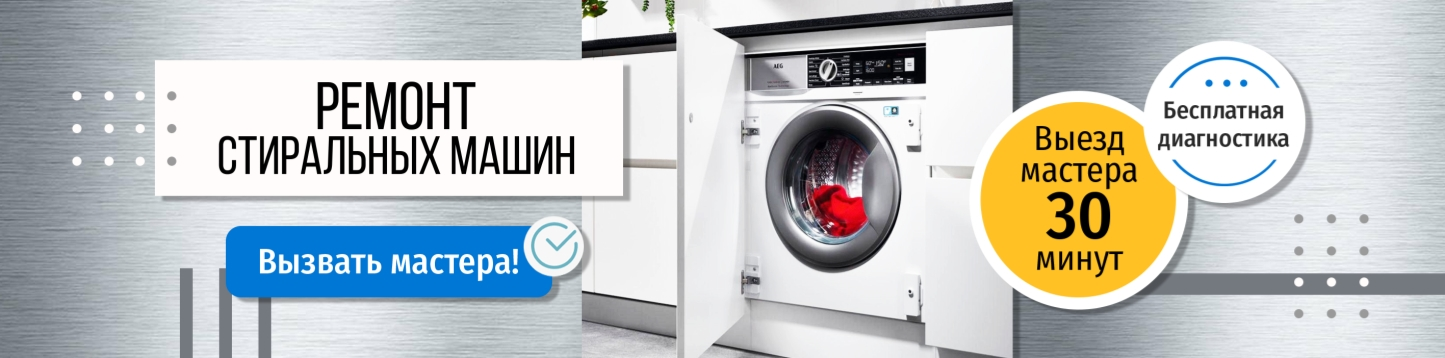
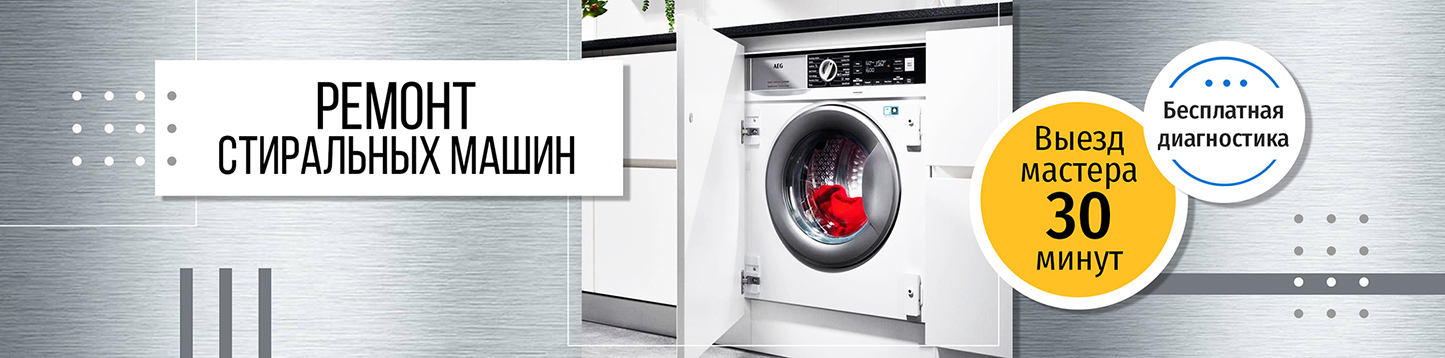
Добавления к верхнему слайдеру
Добавлены актуальные картинки, добавлена кнопка вызова мастера

diff --git a/scss/main.scss b/scss/main.scss
@@ -352,8 +352,94 @@
     box-shadow: 3px 3px 5px #000;
     font-size: 24px;
     line-height: 24px;
-    color: #fff;
+    color: $text__second_color;
     display: block;
+}
+
+.cause {
+    width: 350px;
+    height: 70px;
+    position: absolute;
+    top: 63%;
+    left: 15%;
+    font-family: $font__second;
+    background-color: $bgcolor_blue;
+    color: $text__second_color;
+    border-radius: 15px;
+    box-shadow: 7px 7px 3px #888;
+    font-size: 34px;
+    line-height: 34px;
+    text-align: center;
+    padding: 15px;
+    display: block;
+    z-index: 10;
+}
+
+.cause_btn {
+    width: 350px;
+    height: 70px;
+    position: absolute;
+    top: 0;
+    left: 0;
+    font-family: $font__second;
+    background-color: $bgcolor_blue;
+    color: $text__second_color;
+    border-radius: 15px;
+    font-size: 34px;
+    line-height: 34px;
+    text-align: center;
+    padding: 15px;
+    display: block;
+    z-index: 10;
+}
+
+.cause_btn_block {
+    width: 70px;
+    height: 70px;
+    position: absolute;
+    top: -15%;
+    left: 91%;
+    background-color: #fff;
+    color: $text__menu_color;
+    border-radius: 50%;
+    box-shadow: 7px 7px 3px #888;
+    font-size: 38px;
+    line-height: 38px;
+    text-align: center;
+    padding: 15px;
+    display: block;
+    z-index: 10;
+}
+
+.cause:focus {
+    outline: none;
+}
+
+.cause:hover .cause_btn {
+    background: #ccc;
+    cursor: pointer;
+}
+
+.cause:hover .cause_btn_block {
+    background: #ccc;
+    cursor: pointer;
+}
+
+.cause:hover .cause_btn_block {
+    box-shadow: none;
+}
+
+.cause:active .cause_btn {
+    box-shadow: none;
+}
+
+.cause:active .cause_btn_block {
+    background: #ccc;
+    cursor: pointer;
+}
+
+.cause:active {
+    box-shadow: none;
 }
 
 .arrow:focus {

diff --git a/css/main.css b/css/main.css
@@ -417,6 +417,97 @@
   display: block;
 }
 
+.cause {
+  width: 350px;
+  height: 70px;
+  position: absolute;
+  top: 63%;
+  left: 15%;
+  font-family: "Arial";
+  background-color: #0076d5;
+  color: #fff;
+  border-radius: 15px;
+  -webkit-box-shadow: 7px 7px 3px #888;
+          box-shadow: 7px 7px 3px #888;
+  font-size: 34px;
+  line-height: 34px;
+  text-align: center;
+  padding: 15px;
+  display: block;
+  z-index: 10;
+}
+
+.cause_btn {
+  width: 350px;
+  height: 70px;
+  position: absolute;
+  top: 0;
+  left: 0;
+  font-family: "Arial";
+  background-color: #0076d5;
+  color: #fff;
+  border-radius: 15px;
+  font-size: 34px;
+  line-height: 34px;
+  text-align: center;
+  padding: 15px;
+  display: block;
+  z-index: 10;
+}
+
+.cause_btn_block {
+  width: 70px;
+  height: 70px;
+  position: absolute;
+  top: -15%;
+  left: 91%;
+  background-color: #fff;
+  color: #0076d5;
+  border-radius: 50%;
+  -webkit-box-shadow: 7px 7px 3px #888;
+          box-shadow: 7px 7px 3px #888;
+  font-size: 38px;
+  line-height: 38px;
+  text-align: center;
+  padding: 15px;
+  display: block;
+  z-index: 10;
+}
+
+.cause:focus {
+  outline: none;
+}
+
+.cause:hover .cause_btn {
+  background: #ccc;
+  cursor: pointer;
+}
+
+.cause:hover .cause_btn_block {
+  background: #ccc;
+  cursor: pointer;
+}
+
+.cause:hover .cause_btn_block {
+  -webkit-box-shadow: none;
+          box-shadow: none;
+}
+
+.cause:active .cause_btn {
+  -webkit-box-shadow: none;
+          box-shadow: none;
+}
+
+.cause:active .cause_btn_block {
+  background: #ccc;
+  cursor: pointer;
+}
+
+.cause:active {
+  -webkit-box-shadow: none;
+          box-shadow: none;
+}
+
 .arrow:focus {
   outline: none;
 }

diff --git a/index.html b/index.html
@@ -117,13 +117,17 @@
                     <div class="slider__item">
                         <div id="carousel" class="carousel">
                             <button class="arrow prev"><</button>
+                            <div class="cause">
+                                <div class="cause_btn">Вызвать мастера!</div>
+                                <div class="cause_btn_block">&#10004;</div>
+                            </div>
                             <div class="gallery">
                                 <ul class="images">
                                     <li><img src="./img/top-slider/top-slider_01.jpg"></li>
-                                    <li><img src="./img/top-slider/top-slider_01.jpg"></li>
-                                    <li><img src="./img/top-slider/top-slider_01.jpg"></li>
-                                    <li><img src="./img/top-slider/top-slider_01.jpg"></li>
-                                    <li><img src="./img/top-slider/top-slider_01.jpg"></li>
+                                    <li><img src="./img/top-slider/top-slider_02.jpg"></li>
+                                    <li><img src="./img/top-slider/top-slider_03.jpg"></li>
+                                    <li><img src="./img/top-slider/top-slider_04.jpg"></li>
+                                    <li><img src="./img/top-slider/top-slider_05.jpg"></li>
                                 </ul>
                             </div>
                             <button class="arrow next">></button>
